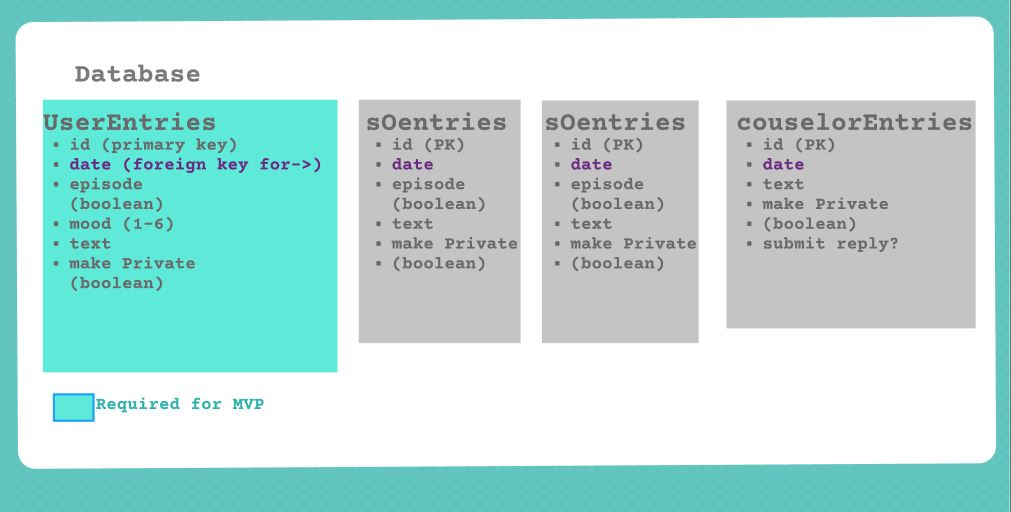
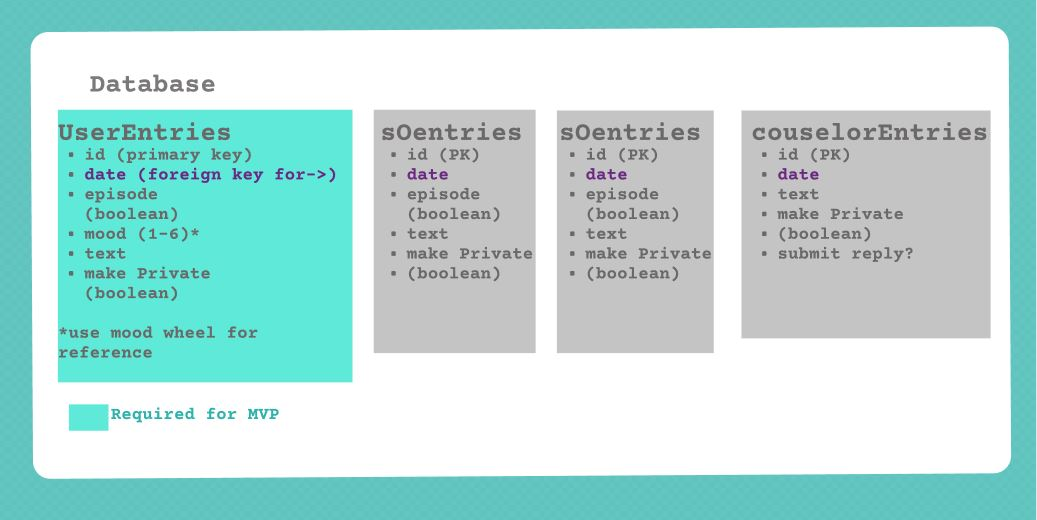
adding Userentries Model

Changed region(s): [[0.0, 0.0, 1.0, 1.0], [0.0307, 0.9062, 0.9505, 0.9375]]

diff --git a/models/UserEntries.js b/models/UserEntries.js
@@ -12,17 +12,29 @@ UserEntries.init(
       allowNull: false,
       primaryKey: true,
       autoIncrement: true,
+      unique: true,
     }, 
     date: {
       type: DataTypes.DATE,
       allowNull: false,
     },
+    time: {
+      type: DataTypes.TIME,
+      allowNull: false,
+    },
     mood: {
       type: DataTypes.INTEGER,
       allowNull: false,
+      max: 6, 
+    },
+    episode: {
+      type: DataTypes.BOOLEAN,  
     },
     text: {
       type: DataTypes.TEXT,
+    },
+    makePivate: {
+      type: DataTypes.BOOLEAN,
       allowNull: false,
     },
   },

diff --git a/models/index.js b/models/index.js
@@ -1,8 +1,6 @@
 //create user, sO, and counselor tables
 
 const User = require('./UserEntries');
-const SignificantOther = require('./SigOth');
-const Counselor = require('./Couselor');
 
 module.exports = {
   User,
